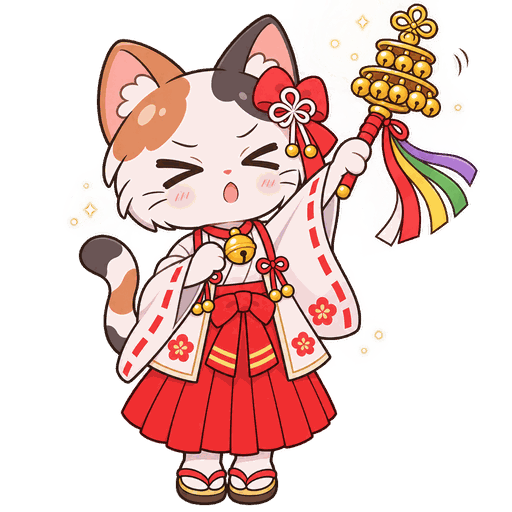
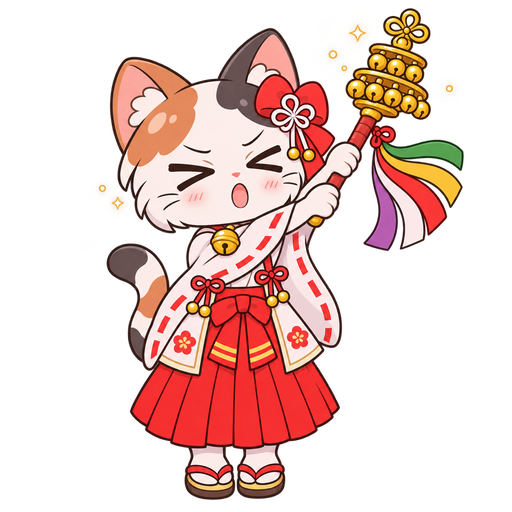
ふくのご祈祷の絵を両手で神楽鈴を振る形に描き直し
Claude-Session: https://claude.ai/code/session_01ExabhAFhoQkYboXbEMhqQ1

Changed region(s): [[0.125, 0.0, 0.9375, 1.0]]

diff --git a/qa/2026-11-27-neko-oharai-v2.md b/qa/2026-11-27-neko-oharai-v2.md
@@ -1,0 +1,6 @@
+# QA：ふくのご祈祷の絵（両手で神楽鈴）— 独立QA担当
+結論：公開してよい（3回目で合格）
+- 1回目：両手はOK、ただし2枚で頭が左右に約34px跳ねる → 不合格。Codex に1枚目を元に腕と神楽鈴だけ描き換えてもらい、頭のずれ0pxに。
+- 2回目：首の金の鈴が2枚目で消えていた → 不合格。1枚目の鈴の画素だけを2枚目に移して修正。
+- 3回目：腕2本・両手持ち、傾き左右逆、顔・体・足・しっぽ・首の鈴のずれ0px、境目の汚れなし、アプリで交互表示・エラーなし → 合格。
+- 小さな気になる点（公開は止めない）：腕を上げても袖が腰に下がったまま。
